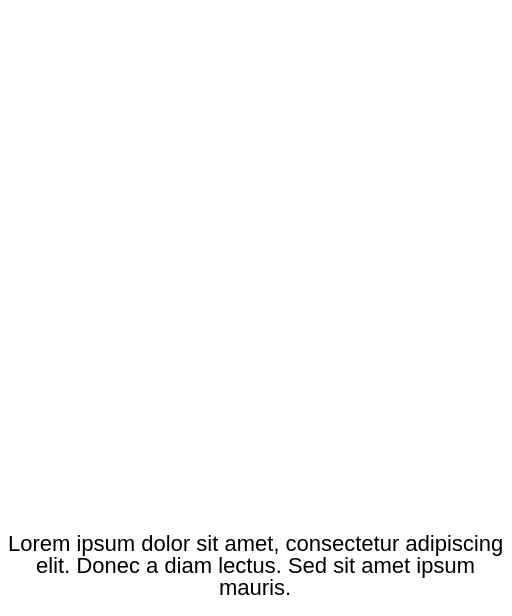
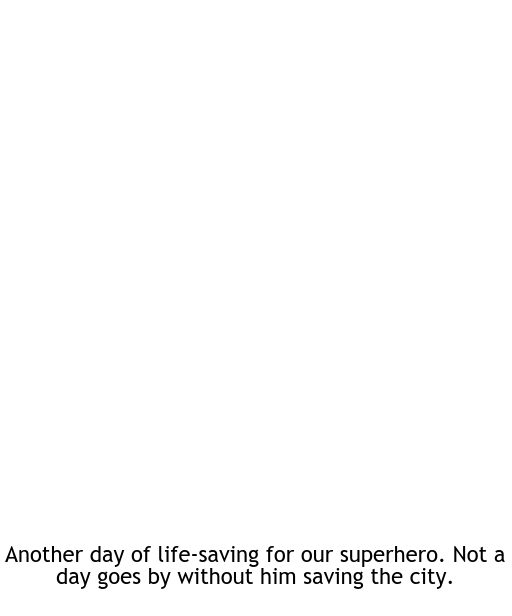
Feat: Added test.js to backend

Changed region(s): [[0.0, 0.8636, 1.0, 0.987]]

diff --git a/backend/test.js b/backend/test.js
@@ -1,0 +1,24 @@
+const fs = require('fs');
+
+async function query(data) {
+	const response = await fetch(
+		"https://xdwvg9no7pefghrn.us-east-1.aws.endpoints.huggingface.cloud",
+		{
+			headers: { 
+				"Accept": "image/png",
+				"Authorization": "Bearer VknySbLLTUjbxXAXCjyfaFIPwUTCeRXbFSOjwRiCxsxFyhbnGjSFalPKrpvvDAaPVzWEevPljilLVDBiTzfIbWFdxOkYJxnOPoHhkkVGzAknaOulWggusSFewzpqsNWM", 
+				"Content-Type": "application/json" 
+			},
+			method: "POST",
+			body: JSON.stringify(data),
+		}
+	);
+	const result = await response.blob();
+	return result;
+}
+
+query({"inputs": "Superhero saving the city"}).then(async (response) => {
+    const imagePath = 'image.png';
+    fs.writeFileSync(imagePath, Buffer.from(await response.arrayBuffer()));
+    console.log("done")
+});

diff --git a/backend/addText.js b/backend/addText.js
@@ -6,7 +6,7 @@ const fs = require('fs').promises;
 const { createCanvas } = require('canvas');
 const sharp = require('sharp');
 
-const text = "Lorem ipsum dolor sit amet, consectetur adipiscing elit. Donec a diam lectus. Sed sit amet ipsum mauris.";
+const text = "Another day of life-saving for our superhero. Not a day goes by without him saving the city.";
 const maxWidth = 512;
 const imageBuffer = textToImage(text, maxWidth);
 

diff --git a/backend/text.js b/backend/text.js
@@ -5,7 +5,7 @@ const { createCanvas } = require('canvas');
 function textToImage(text, maxWidth) {
     const canvas = createCanvas(512, 616);
     const context = canvas.getContext('2d');
-    context.font = '22px Arial';
+    context.font = '22px trebuchet ms';
 
     const words = text.split(' ');
     const lines = [];
